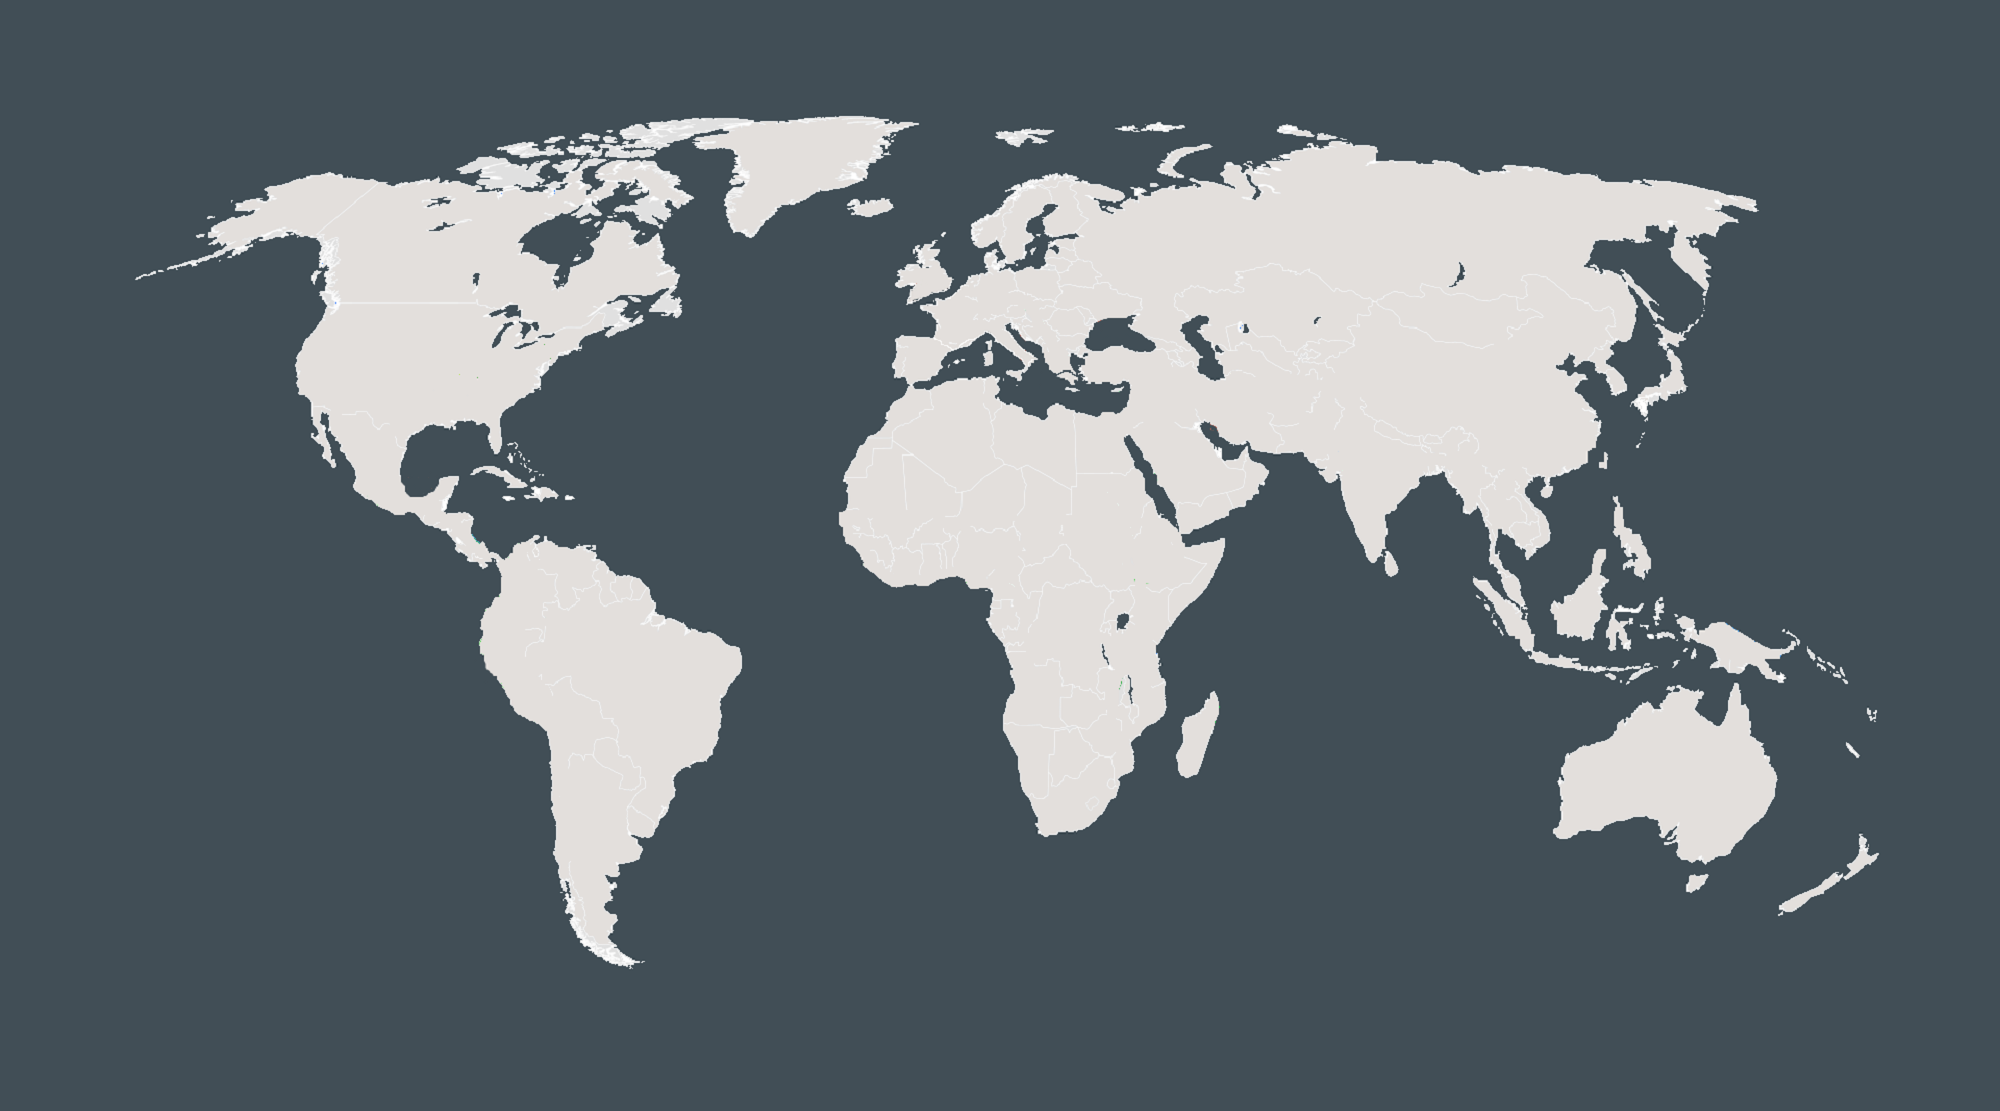
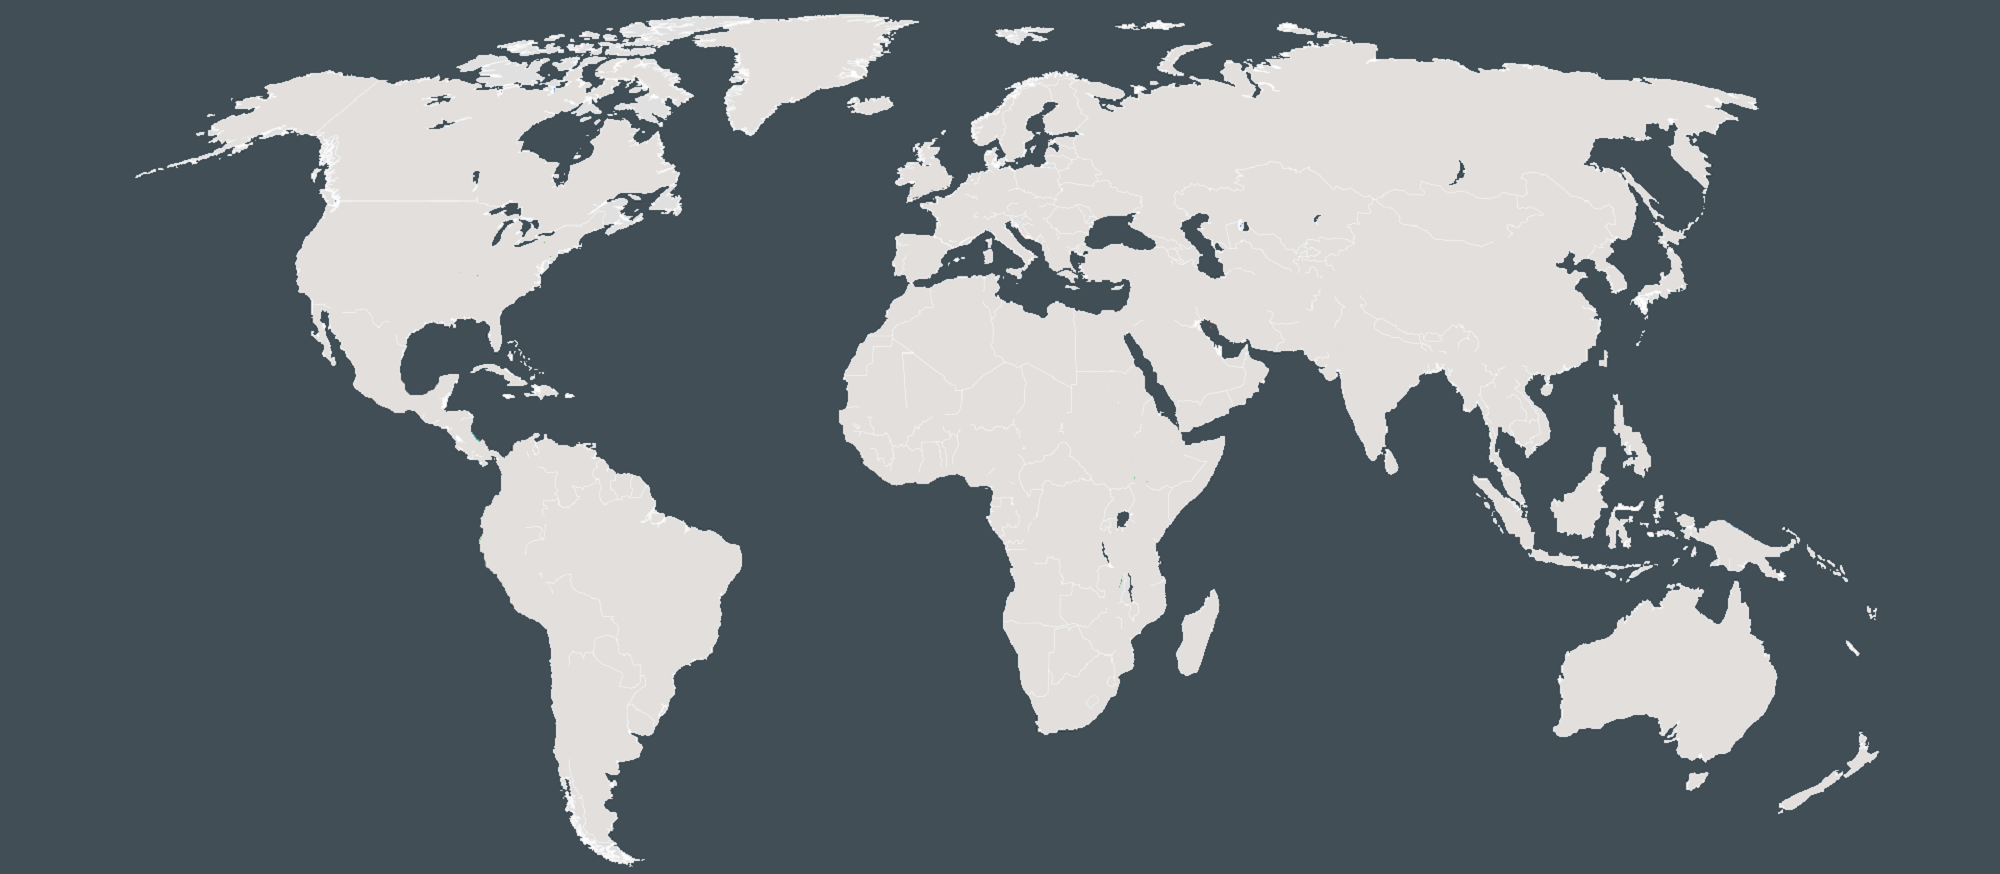
запускаем карту

diff --git a/js/view/map.js b/js/view/map.js
@@ -1,0 +1,9 @@
+(window.makeMap = function() {
+    const gameElement = document.querySelector('body');
+    gameElement.style.margin = '0';
+    const mapElement = document.createElement('img');
+    mapElement.src = 'img/maps/background.png';
+    mapElement.style.width = '100%';
+    mapElement.style.height = '100%';
+    return mapElement;
+})();

diff --git a/index.html b/index.html
@@ -1,0 +1,9 @@
+<!DOCTYPE html>
+<html>
+    <head></head>
+    <body>
+        <script src="js/view/map.js"></script>
+        <script src="js/render.js"></script>
+        <script src="js/main.js"></script>
+    </body>
+</html>

diff --git a/js/render.js b/js/render.js
@@ -1,0 +1,3 @@
+const gameElement = document.querySelector('body');
+const mapElement = window.makeMap();
+gameElement.appendChild(mapElement);
